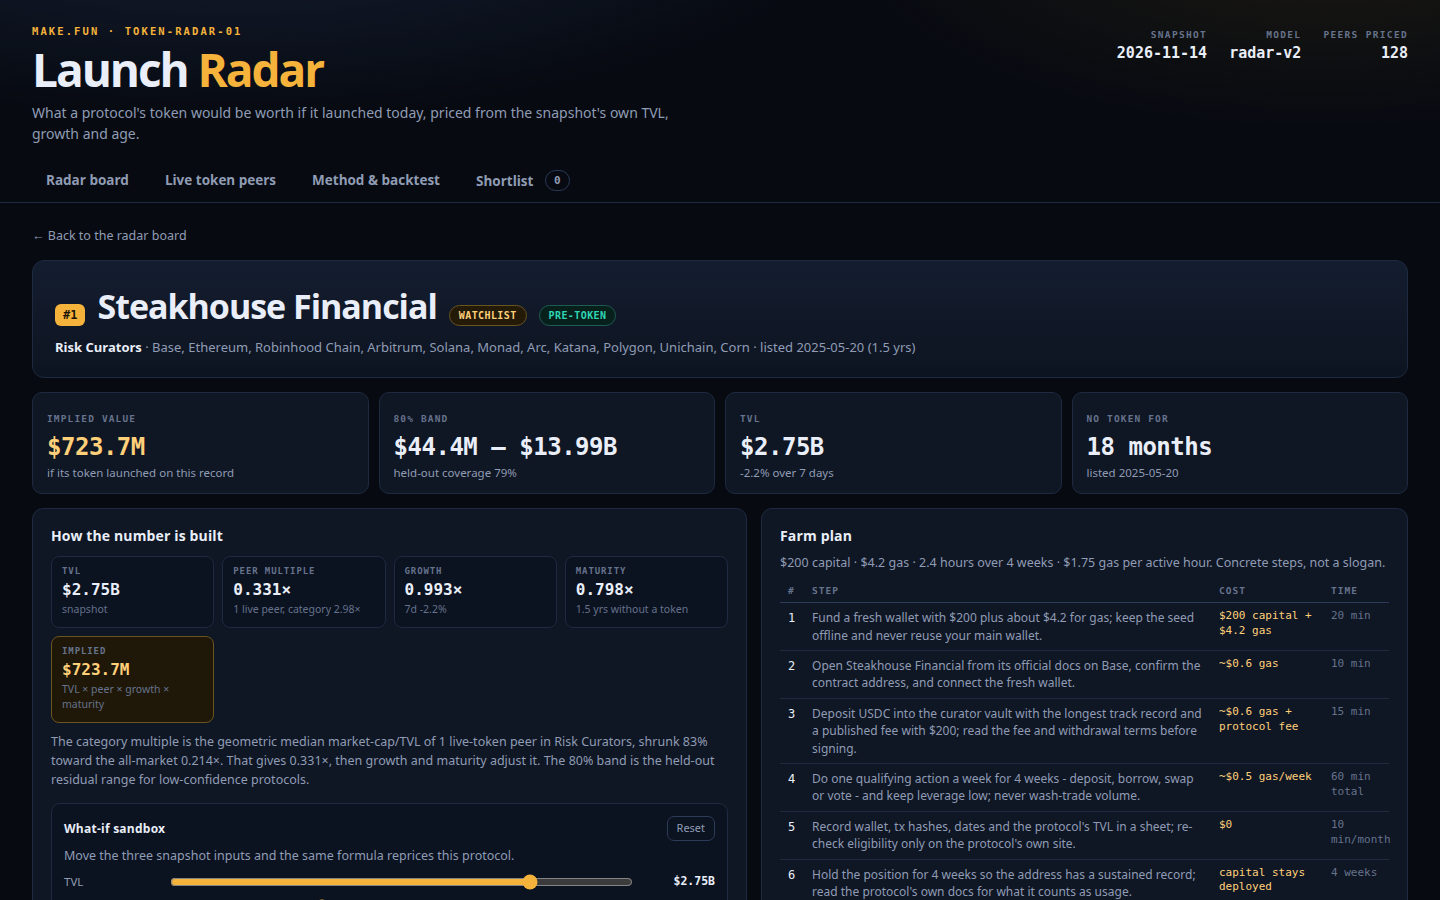
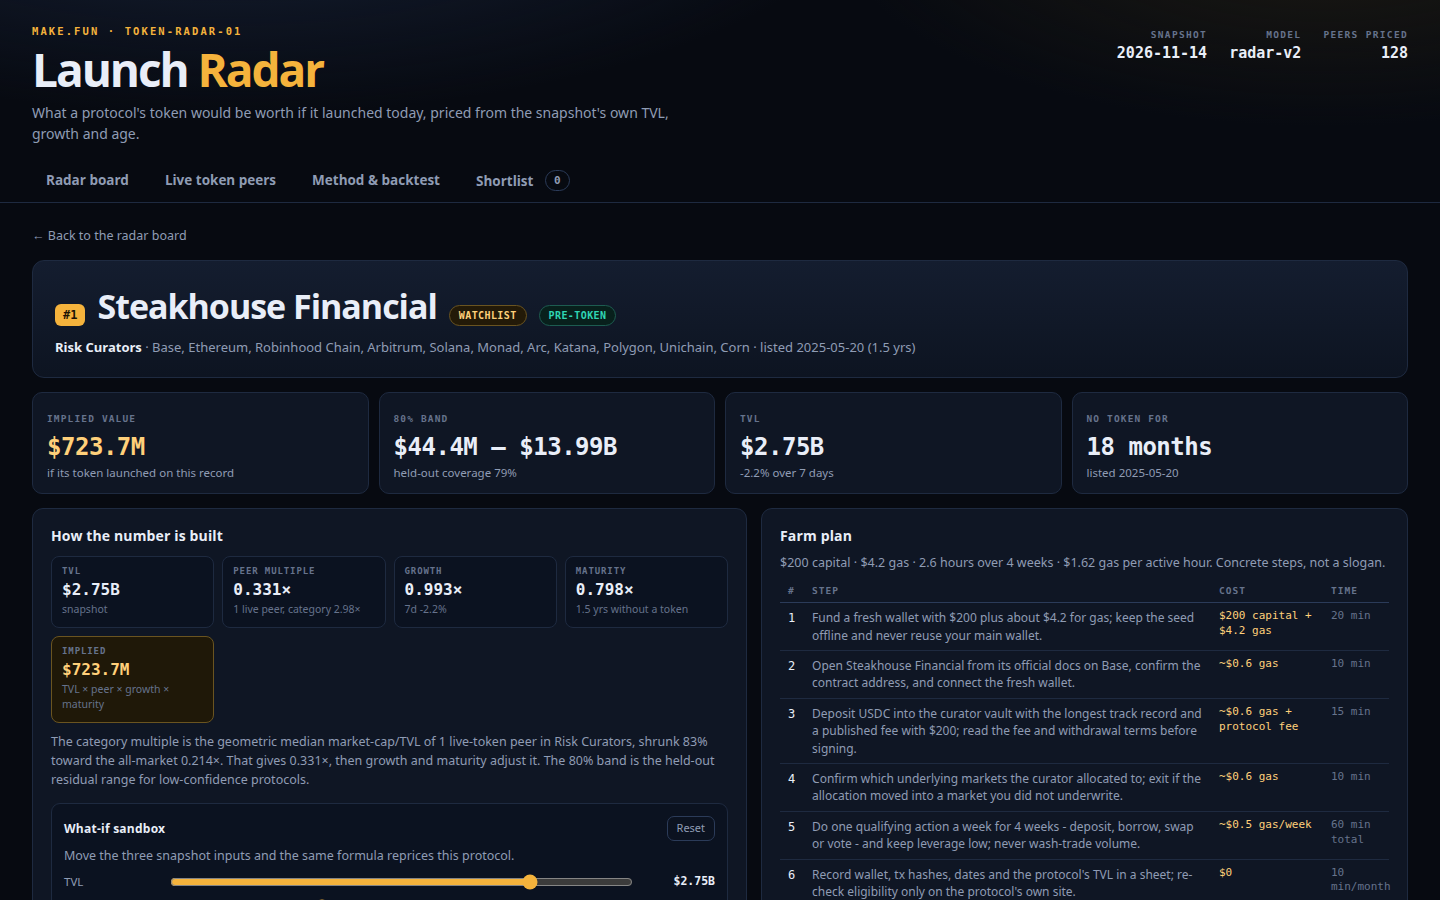
Give each category its own farm plan shape

Changed region(s): [[0.5625, 0.84, 0.9688, 1.0], [0.9375, 0.9022, 0.9688, 0.9333]]

diff --git a/lib/valuation.ts b/lib/valuation.ts
@@ -388,6 +388,54 @@ const CATEGORY_ACTION: [RegExp, string][] = [
 ];
 const GENERIC_ACTION = 'Make one genuine USDC deposit or swap so the address has real usage';
 
+/** Category-specific middle and exit moves, so plans differ by what the protocol actually does. */
+const PLAN_VARIANT: [RegExp, { middle: string; exit: string }][] = [
+  [/lend|cdp|borrow|collateral|stable/i, {
+    middle: 'Borrow 30-40% of the deposit in USDT or USDC and keep it in the wallet, so both the supply and the borrow side have real activity',
+    exit: 'Repay the loan in full, withdraw the collateral, and keep the wallet for any future claim',
+  }],
+  [/dex|amm|swap/i, {
+    middle: 'Claim the pool fees after two weeks and restake them into the same position instead of starting a second pool',
+    exit: 'Remove the liquidity, claim the last fees, and unwind the LP receipt before bridging out',
+  }],
+  [/liquid staking|staking|restak/i, {
+    middle: 'Hold the receipt token; do not loop it into another lending market, which doubles the smart-contract risk for the same exposure',
+    exit: 'Unstake or sell the receipt on the secondary market, then bridge the native asset back',
+  }],
+  [/bridge|canonical|cross chain/i, {
+    middle: 'Do one swap on the destination chain so the bridged balance is used, not only parked in the bridge contract',
+    exit: 'Bridge the remaining balance back and keep the destination wallet for any future claim',
+  }],
+  [/yield|aggregator|vault|farm/i, {
+    middle: 'Check the vault fee and the underlying strategy after two weeks; if either changed, exit rather than chase the new APY',
+    exit: 'Request the withdrawal, wait out any queue, and bridge the proceeds back',
+  }],
+  [/rwa|real/i, {
+    middle: 'Complete the allow-list check once and mint the smallest permitted position, then hold it rather than trading it',
+    exit: 'Redeem through the issuer, since secondary liquidity may be thin or restricted',
+  }],
+  [/deriv|perp|option|basis/i, {
+    middle: 'Open and close one small hedged position each week and keep the notional under 2x the deposited margin',
+    exit: 'Close the position, withdraw the margin, and check the funding paid or earned',
+  }],
+  [/curator|allocator/i, {
+    middle: 'Confirm which underlying markets the curator allocated to; exit if the allocation moved into a market you did not underwrite',
+    exit: 'Request the withdrawal from the curator vault and wait out the stated notice period',
+  }],
+  [/predict|gaming|nft|social/i, {
+    middle: 'Take one more position in a liquid market after two weeks so the address has repeated, real activity',
+    exit: 'Settle or sell the position, withdraw, and keep the wallet for future claims',
+  }],
+  [/insur|cover/i, {
+    middle: 'Hold the cover to expiry rather than cancelling after a week; a cancelled policy usually leaves no record',
+    exit: 'Let the policy expire or claim it, then withdraw any remaining balance',
+  }],
+];
+const GENERIC_VARIANT = {
+  middle: 'Repeat the deposit once more after two weeks so the address is not a one-transaction visitor',
+  exit: 'Withdraw the position, bridge back, and keep the wallet for future claims',
+};
+
 const actionFor = (p: Protocol): string => {
   const hit = CATEGORY_ACTION.find(([re]) => re.test(p.category ?? ''));
   return hit ? hit[1] : GENERIC_ACTION;
@@ -423,9 +471,10 @@ const farmPlan = (
   const exit = Math.max(1, gas / 2);
   // Every figure below is the sum of the steps that show it, so the summary and the table agree.
   const totalGas = round(gas * 2 + weekly * weeks + exit, 2);
-  const hours = round((20 + 10 + 15 + weeks * 15 + 10 + 30) / 60, 1);
+  const hours = round((20 + 10 + 15 + 10 + weeks * 15 + 10 + 30) / 60, 1);
   const gasPerHour = round(totalGas / Math.max(0.1, hours), 2);
   const action = actionFor(p);
+  const variant = (PLAN_VARIANT.find(([re]) => re.test(p.category ?? '')) ?? [null, GENERIC_VARIANT])[1];
   const verdict = !candidate
     ? `Skip as a launch farm: ${whyNot ?? 'not a launch candidate'}.`
     : confidence === 'low' && peers < 3
@@ -441,10 +490,11 @@ const farmPlan = (
     },
     { action: `Open ${name} from its official docs on ${chain}, confirm the contract address, and connect the fresh wallet.`, cost: `~$${gas} gas`, time: '10 min' },
     { action: `${action} with $${capital}; read the fee and withdrawal terms before signing.`, cost: `~$${gas} gas + protocol fee`, time: '15 min' },
+    { action: `${variant.middle}.`, cost: `~$${gas} gas`, time: '10 min' },
     { action: `Do one qualifying action a week for ${weeks} weeks - deposit, borrow, swap or vote - and keep leverage low; never wash-trade volume.`, cost: `~$${weekly} gas/week`, time: `${weeks * 15} min total` },
     { action: `Record wallet, tx hashes, dates and the protocol's TVL in a sheet; re-check eligibility only on the protocol's own site.`, cost: '$0', time: '10 min/month' },
     { action: `Hold the position for ${weeks} weeks so the address has a sustained record; read the protocol's own docs for what it counts as usage.`, cost: 'capital stays deployed', time: `${weeks} weeks` },
-    { action: `Exit by withdrawing, repaying any loan and bridging back; keep the wallet for future claims and never sign a DM link.`, cost: `~$${exit} gas`, time: '30 min' },
+    { action: `${variant.exit}. Never sign a claim link from a DM.`, cost: `~$${exit} gas`, time: '30 min' },
   ];
   for (const step of steps) {
     if (step.action.length < 20) step.action = `${step.action} (confirm the terms first).`;

diff --git a/docs/CHANGELOG.md b/docs/CHANGELOG.md
@@ -55,4 +55,7 @@ Rank is the leaderboard row; the rate is the Bradley-Terry win rate against the 
 - Second validation: walk-forward fit on the older 70% of dated peers, tested on the
   newer 29 (median miss 4.31x, rank correlation 0.27, band coverage 76%).
 - Fourth screenshot: the method and backtest page.
-- Held until the change is judged large enough to spend an entry.
+- Farm plans now vary by category (lending, DEX, staking, bridge, RWA, perps, curator),
+  with category-specific middle and exit moves instead of one template.
+- Submitted after review: the page features close the gap the match log named, and the
+  farm plans changed shape, not just wording.
